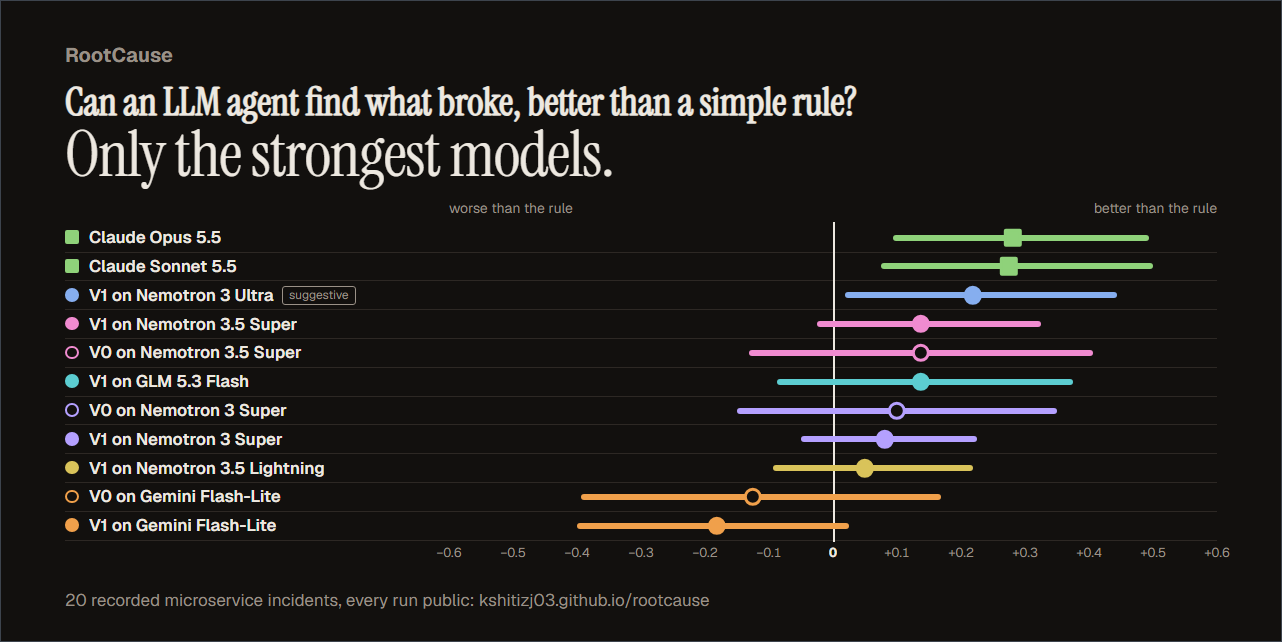
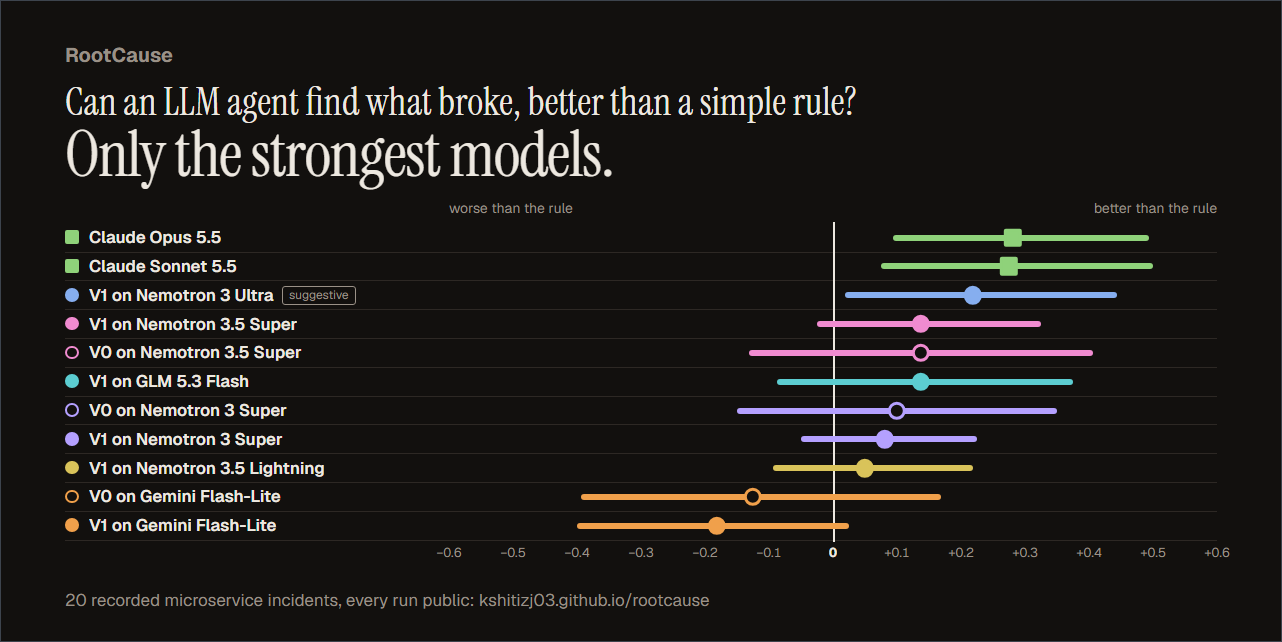
Share card: regular-weight serif headline, images regenerated

Changed region(s): [[0.0312, 0.1246, 0.6864, 0.1869]]

diff --git a/site/assets/style.css b/site/assets/style.css
@@ -573,7 +573,7 @@ body[data-page="index"] main, body[data-page="index"] .masthead, body[data-page=
 body.card { width: 1280px; height: 640px; overflow: hidden; }
 body.card main { max-width: none; padding: 44px 64px 0; }
 .card-mark { margin: 0; font: 700 1.25rem/1 var(--display); color: var(--muted); }
-body.card h1 { margin-top: 16px; font-family: var(--serif); font-size: 2.4rem; line-height: 1.1; font-weight: 400; font-weight: 600; max-width: 30em; }
+body.card h1 { margin-top: 16px; font-family: var(--serif); font-size: 2.4rem; line-height: 1.1; font-weight: 400; max-width: 30em; }
 body.card .answer-line { font-size: 4rem; margin-top: 2px; }
 body.card #hero-plot { margin-top: 12px; max-width: none; }
 /* one line per agent, so up to about twelve fit the frame */
